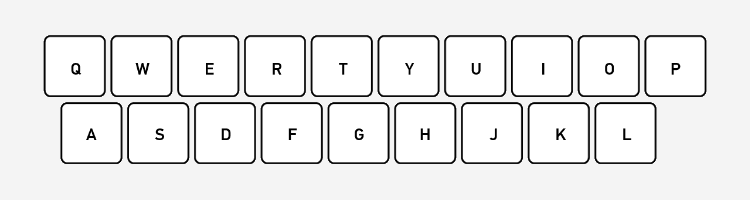
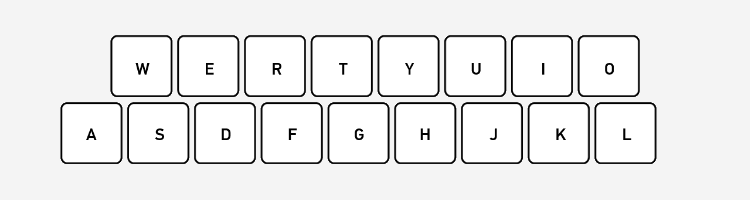
Updated piano keyboard interaction with UI.

diff --git a/MusicalNoteTrainer/src/application/controller/PianoController.java b/MusicalNoteTrainer/src/application/controller/PianoController.java
@@ -245,74 +245,80 @@ public class PianoController {
 	}
     
     
-	@FXML private void handleC3_entered() throws ClassNotFoundException { imgPianoC1.setImage(new Image("piano_keys/piano_left2.png")); }
-	@FXML private void handleC3_exited() throws ClassNotFoundException { imgPianoC1.setImage(new Image("piano_keys/piano_left.png")); }
+	@FXML private void handleC3_entered() throws ClassNotFoundException { imgPianoC1.setImage(new Image("piano_keys/piano_left2.png")); imgKeyboardA.setImage(new Image("kalim_keys/color2.png"));}
+	@FXML private void handleC3_exited() throws ClassNotFoundException { imgPianoC1.setImage(new Image("piano_keys/piano_left.png")); imgKeyboardA.setImage(new Image("kalim_keys/color.png"));}
 	@FXML private void handleC3_clicked() throws ClassNotFoundException { lastPressed = "C3";notesRec++;  Thread object = new Thread(new MultithreadingPiano()); object.start(); }
-	@FXML private void handleC4_entered() throws ClassNotFoundException { imgPianoC2.setImage(new Image("piano_keys/piano_left2.png")); }
-	@FXML private void handleC4_exited() throws ClassNotFoundException { imgPianoC2.setImage(new Image("piano_keys/piano_left.png")); }
+	
+	@FXML private void handleC4_entered() throws ClassNotFoundException { imgPianoC2.setImage(new Image("piano_keys/piano_left2.png")); imgKeyboardK.setImage(new Image("kalim_keys/color2.png"));}
+	@FXML private void handleC4_exited() throws ClassNotFoundException { imgPianoC2.setImage(new Image("piano_keys/piano_left.png")); imgKeyboardK.setImage(new Image("kalim_keys/color.png"));}
 	@FXML private void handleC4_clicked() throws ClassNotFoundException { lastPressed = "C4"; notesRec++;  Thread object = new Thread(new MultithreadingPiano()); object.start(); }
-	@FXML private void handleC5_entered() throws ClassNotFoundException { imgPianoC3.setImage(new Image("piano_keys/piano_left2.png")); }
-	@FXML private void handleC5_exited() throws ClassNotFoundException { imgPianoC3.setImage(new Image("piano_keys/piano_left.png")); }
+	
+	@FXML private void handleC5_entered() throws ClassNotFoundException { imgPianoC3.setImage(new Image("piano_keys/piano_left2.png")); imgKeyboardY.setImage(new Image("kalim_keys/color2.png"));}
+	@FXML private void handleC5_exited() throws ClassNotFoundException { imgPianoC3.setImage(new Image("piano_keys/piano_left.png")); imgKeyboardY.setImage(new Image("kalim_keys/color.png"));}
 	@FXML private void handleC5_clicked() throws ClassNotFoundException { lastPressed = "C5"; notesRec++; Thread object = new Thread(new MultithreadingPiano()); object.start(); }
 	
-	
-	@FXML private void handleD3_entered() throws ClassNotFoundException { imgPianoD1.setImage(new Image("piano_keys/piano_left2.png")); }
-	@FXML private void handleD3_exited() throws ClassNotFoundException { imgPianoD1.setImage(new Image("piano_keys/piano_left.png")); }
+	@FXML private void handleD3_entered() throws ClassNotFoundException { imgPianoD1.setImage(new Image("piano_keys/piano_left2.png")); imgKeyboardS.setImage(new Image("kalim_keys/color2.png"));}
+	@FXML private void handleD3_exited() throws ClassNotFoundException { imgPianoD1.setImage(new Image("piano_keys/piano_left.png")); imgKeyboardS.setImage(new Image("kalim_keys/color.png"));}
 	@FXML private void handleD3_clicked() throws ClassNotFoundException { lastPressed = "D3"; notesRec++; Thread object = new Thread(new MultithreadingPiano()); object.start(); }
-	@FXML private void handleD4_entered() throws ClassNotFoundException { imgPianoD2.setImage(new Image("piano_keys/piano_left2.png")); }
-	@FXML private void handleD4_exited() throws ClassNotFoundException { imgPianoD2.setImage(new Image("piano_keys/piano_left.png")); }
+	
+	@FXML private void handleD4_entered() throws ClassNotFoundException { imgPianoD2.setImage(new Image("piano_keys/piano_left2.png")); imgKeyboardL.setImage(new Image("kalim_keys/color2.png"));}
+	@FXML private void handleD4_exited() throws ClassNotFoundException { imgPianoD2.setImage(new Image("piano_keys/piano_left.png")); imgKeyboardL.setImage(new Image("kalim_keys/color.png"));}
 	@FXML private void handleD4_clicked() throws ClassNotFoundException { lastPressed = "D4"; notesRec++; Thread object = new Thread(new MultithreadingPiano()); object.start(); }
-	@FXML private void handleD5_entered() throws ClassNotFoundException { imgPianoD3.setImage(new Image("piano_keys/piano_left2.png")); }
-	@FXML private void handleD5_exited() throws ClassNotFoundException { imgPianoD3.setImage(new Image("piano_keys/piano_left.png")); }
+	
+	@FXML private void handleD5_entered() throws ClassNotFoundException { imgPianoD3.setImage(new Image("piano_keys/piano_left2.png")); imgKeyboardU.setImage(new Image("kalim_keys/color2.png"));}
+	@FXML private void handleD5_exited() throws ClassNotFoundException { imgPianoD3.setImage(new Image("piano_keys/piano_left.png")); imgKeyboardU.setImage(new Image("kalim_keys/color.png"));}
 	@FXML private void handleD5_clicked() throws ClassNotFoundException { lastPressed = "D5"; notesRec++; Thread object = new Thread(new MultithreadingPiano()); object.start(); }
 	
-	
-	@FXML private void handleE3_entered() throws ClassNotFoundException { imgPianoE1.setImage(new Image("piano_keys/piano_left2.png")); }
-	@FXML private void handleE3_exited() throws ClassNotFoundException { imgPianoE1.setImage(new Image("piano_keys/piano_left.png")); }
+	@FXML private void handleE3_entered() throws ClassNotFoundException { imgPianoE1.setImage(new Image("piano_keys/piano_left2.png")); imgKeyboardD.setImage(new Image("kalim_keys/color2.png"));}
+	@FXML private void handleE3_exited() throws ClassNotFoundException { imgPianoE1.setImage(new Image("piano_keys/piano_left.png")); imgKeyboardD.setImage(new Image("kalim_keys/color.png"));}
 	@FXML private void handleE3_clicked() throws ClassNotFoundException { lastPressed = "E3"; notesRec++; Thread object = new Thread(new MultithreadingPiano()); object.start(); }
-	@FXML private void handleE4_entered() throws ClassNotFoundException { imgPianoE2.setImage(new Image("piano_keys/piano_left2.png")); }
-	@FXML private void handleE4_exited() throws ClassNotFoundException { imgPianoE2.setImage(new Image("piano_keys/piano_left.png")); }
+	
+	@FXML private void handleE4_entered() throws ClassNotFoundException { imgPianoE2.setImage(new Image("piano_keys/piano_left2.png")); imgKeyboardQ.setImage(new Image("kalim_keys/color2.png"));}
+	@FXML private void handleE4_exited() throws ClassNotFoundException { imgPianoE2.setImage(new Image("piano_keys/piano_left.png")); imgKeyboardQ.setImage(new Image("kalim_keys/color.png"));}
 	@FXML private void handleE4_clicked() throws ClassNotFoundException { lastPressed = "E4"; notesRec++; Thread object = new Thread(new MultithreadingPiano()); object.start(); }
-	@FXML private void handleE5_entered() throws ClassNotFoundException { imgPianoE3.setImage(new Image("piano_keys/piano_left2.png")); }
-	@FXML private void handleE5_exited() throws ClassNotFoundException { imgPianoE3.setImage(new Image("piano_keys/piano_left.png")); }
+	
+	@FXML private void handleE5_entered() throws ClassNotFoundException { imgPianoE3.setImage(new Image("piano_keys/piano_left2.png")); imgKeyboardI.setImage(new Image("kalim_keys/color2.png"));}
+	@FXML private void handleE5_exited() throws ClassNotFoundException { imgPianoE3.setImage(new Image("piano_keys/piano_left.png")); imgKeyboardI.setImage(new Image("kalim_keys/color.png"));}
 	@FXML private void handleE5_clicked() throws ClassNotFoundException { lastPressed = "E5"; notesRec++; Thread object = new Thread(new MultithreadingPiano()); object.start(); }
 	
-	
-	@FXML private void handleF3_entered() throws ClassNotFoundException { imgPianoF1.setImage(new Image("piano_keys/piano_left2.png")); }
-	@FXML private void handleF3_exited() throws ClassNotFoundException { imgPianoF1.setImage(new Image("piano_keys/piano_left.png")); }
+	@FXML private void handleF3_entered() throws ClassNotFoundException { imgPianoF1.setImage(new Image("piano_keys/piano_left2.png")); imgKeyboardF.setImage(new Image("kalim_keys/color2.png"));}
+	@FXML private void handleF3_exited() throws ClassNotFoundException { imgPianoF1.setImage(new Image("piano_keys/piano_left.png")); imgKeyboardF.setImage(new Image("kalim_keys/color.png"));}
 	@FXML private void handleF3_clicked() throws ClassNotFoundException { lastPressed = "F3"; notesRec++; Thread object = new Thread(new MultithreadingPiano()); object.start(); }
-	@FXML private void handleF4_entered() throws ClassNotFoundException { imgPianoF2.setImage(new Image("piano_keys/piano_left2.png")); }
-	@FXML private void handleF4_exited() throws ClassNotFoundException { imgPianoF2.setImage(new Image("piano_keys/piano_left.png")); }
+	
+	@FXML private void handleF4_entered() throws ClassNotFoundException { imgPianoF2.setImage(new Image("piano_keys/piano_left2.png")); imgKeyboardW.setImage(new Image("kalim_keys/color2.png"));}
+	@FXML private void handleF4_exited() throws ClassNotFoundException { imgPianoF2.setImage(new Image("piano_keys/piano_left.png")); imgKeyboardW.setImage(new Image("kalim_keys/color.png"));}
 	@FXML private void handleF4_clicked() throws ClassNotFoundException { lastPressed = "F4"; notesRec++; Thread object = new Thread(new MultithreadingPiano()); object.start(); }
-	@FXML private void handleF5_entered() throws ClassNotFoundException { imgPianoF3.setImage(new Image("piano_keys/piano_left2.png")); }
-	@FXML private void handleF5_exited() throws ClassNotFoundException { imgPianoF3.setImage(new Image("piano_keys/piano_left.png")); }
+	
+	@FXML private void handleF5_entered() throws ClassNotFoundException { imgPianoF3.setImage(new Image("piano_keys/piano_left2.png")); imgKeyboardO.setImage(new Image("kalim_keys/color2.png"));}
+	@FXML private void handleF5_exited() throws ClassNotFoundException { imgPianoF3.setImage(new Image("piano_keys/piano_left.png")); imgKeyboardO.setImage(new Image("kalim_keys/color.png"));}
 	@FXML private void handleF5_clicked() throws ClassNotFoundException { lastPressed = "F5"; notesRec++; Thread object = new Thread(new MultithreadingPiano()); object.start(); }
 	
-	
-	@FXML private void handleG3_entered() throws ClassNotFoundException { imgPianoG1.setImage(new Image("piano_keys/piano_left2.png")); }
-	@FXML private void handleG3_exited() throws ClassNotFoundException { imgPianoG1.setImage(new Image("piano_keys/piano_left.png")); }
+	@FXML private void handleG3_entered() throws ClassNotFoundException { imgPianoG1.setImage(new Image("piano_keys/piano_left2.png")); imgKeyboardG.setImage(new Image("kalim_keys/color2.png"));}
+	@FXML private void handleG3_exited() throws ClassNotFoundException { imgPianoG1.setImage(new Image("piano_keys/piano_left.png")); imgKeyboardG.setImage(new Image("kalim_keys/color.png"));}
 	@FXML private void handleG3_clicked() throws ClassNotFoundException { lastPressed = "G3"; notesRec++; Thread object = new Thread(new MultithreadingPiano()); object.start(); }
-	@FXML private void handleG4_entered() throws ClassNotFoundException { imgPianoG2.setImage(new Image("piano_keys/piano_left2.png")); }
-	@FXML private void handleG4_exited() throws ClassNotFoundException { imgPianoG2.setImage(new Image("piano_keys/piano_left.png")); }
+	
+	@FXML private void handleG4_entered() throws ClassNotFoundException { imgPianoG2.setImage(new Image("piano_keys/piano_left2.png")); imgKeyboardE.setImage(new Image("kalim_keys/color2.png"));}
+	@FXML private void handleG4_exited() throws ClassNotFoundException { imgPianoG2.setImage(new Image("piano_keys/piano_left.png")); imgKeyboardE.setImage(new Image("kalim_keys/color.png"));}
 	@FXML private void handleG4_clicked() throws ClassNotFoundException { lastPressed = "G4"; notesRec++; Thread object = new Thread(new MultithreadingPiano()); object.start(); }
-	@FXML private void handleG5_entered() throws ClassNotFoundException { imgPianoG3.setImage(new Image("piano_keys/piano_left2.png")); }
-	@FXML private void handleG5_exited() throws ClassNotFoundException { imgPianoG3.setImage(new Image("piano_keys/piano_left.png")); }
+	
+	@FXML private void handleG5_entered() throws ClassNotFoundException { imgPianoG3.setImage(new Image("piano_keys/piano_left2.png")); imgKeyboardP.setImage(new Image("kalim_keys/color2.png"));}
+	@FXML private void handleG5_exited() throws ClassNotFoundException { imgPianoG3.setImage(new Image("piano_keys/piano_left.png")); imgKeyboardP.setImage(new Image("kalim_keys/color.png"));}
 	@FXML private void handleG5_clicked() throws ClassNotFoundException { lastPressed = "G5"; notesRec++; Thread object = new Thread(new MultithreadingPiano()); object.start(); }
 	
-	
-	@FXML private void handleA3_entered() throws ClassNotFoundException { imgPianoA1.setImage(new Image("piano_keys/piano_left2.png")); }
-	@FXML private void handleA3_exited() throws ClassNotFoundException { imgPianoA1.setImage(new Image("piano_keys/piano_left.png")); }
+	@FXML private void handleA3_entered() throws ClassNotFoundException { imgPianoA1.setImage(new Image("piano_keys/piano_left2.png")); imgKeyboardH.setImage(new Image("kalim_keys/color2.png"));}
+	@FXML private void handleA3_exited() throws ClassNotFoundException { imgPianoA1.setImage(new Image("piano_keys/piano_left.png")); imgKeyboardH.setImage(new Image("kalim_keys/color.png"));}
 	@FXML private void handleA3_clicked() throws ClassNotFoundException { lastPressed = "A3"; notesRec++; Thread object = new Thread(new MultithreadingPiano()); object.start(); }
-	@FXML private void handleA4_entered() throws ClassNotFoundException { imgPianoA2.setImage(new Image("piano_keys/piano_left2.png")); }
-	@FXML private void handleA4_exited() throws ClassNotFoundException { imgPianoA2.setImage(new Image("piano_keys/piano_left.png")); }
+	
+	@FXML private void handleA4_entered() throws ClassNotFoundException { imgPianoA2.setImage(new Image("piano_keys/piano_left2.png")); imgKeyboardR.setImage(new Image("kalim_keys/color2.png"));}
+	@FXML private void handleA4_exited() throws ClassNotFoundException { imgPianoA2.setImage(new Image("piano_keys/piano_left.png")); imgKeyboardR.setImage(new Image("kalim_keys/color.png"));}
 	@FXML private void handleA4_clicked() throws ClassNotFoundException { lastPressed = "A4"; notesRec++; Thread object = new Thread(new MultithreadingPiano()); object.start(); }
 	
-	
-	@FXML private void handleB3_entered() throws ClassNotFoundException { imgPianoB1.setImage(new Image("piano_keys/piano_left2.png")); }
-	@FXML private void handleB3_exited() throws ClassNotFoundException { imgPianoB1.setImage(new Image("piano_keys/piano_left.png")); }
+	@FXML private void handleB3_entered() throws ClassNotFoundException { imgPianoB1.setImage(new Image("piano_keys/piano_left2.png")); imgKeyboardJ.setImage(new Image("kalim_keys/color2.png"));}
+	@FXML private void handleB3_exited() throws ClassNotFoundException { imgPianoB1.setImage(new Image("piano_keys/piano_left.png")); imgKeyboardJ.setImage(new Image("kalim_keys/color.png"));}
 	@FXML private void handleB3_clicked() throws ClassNotFoundException { lastPressed = "B3"; notesRec++; Thread object = new Thread(new MultithreadingPiano()); object.start(); }
-	@FXML private void handleB4_entered() throws ClassNotFoundException { imgPianoB2.setImage(new Image("piano_keys/piano_left2.png")); }
-	@FXML private void handleB4_exited() throws ClassNotFoundException { imgPianoB2.setImage(new Image("piano_keys/piano_left.png")); }
+	
+	@FXML private void handleB4_entered() throws ClassNotFoundException { imgPianoB2.setImage(new Image("piano_keys/piano_left2.png")); imgKeyboardT.setImage(new Image("kalim_keys/color2.png"));}
+	@FXML private void handleB4_exited() throws ClassNotFoundException { imgPianoB2.setImage(new Image("piano_keys/piano_left.png")); imgKeyboardT.setImage(new Image("kalim_keys/color.png"));}
 	@FXML private void handleB4_clicked() throws ClassNotFoundException { lastPressed = "B4"; notesRec++; Thread object = new Thread(new MultithreadingPiano()); object.start(); }
 	
 	
